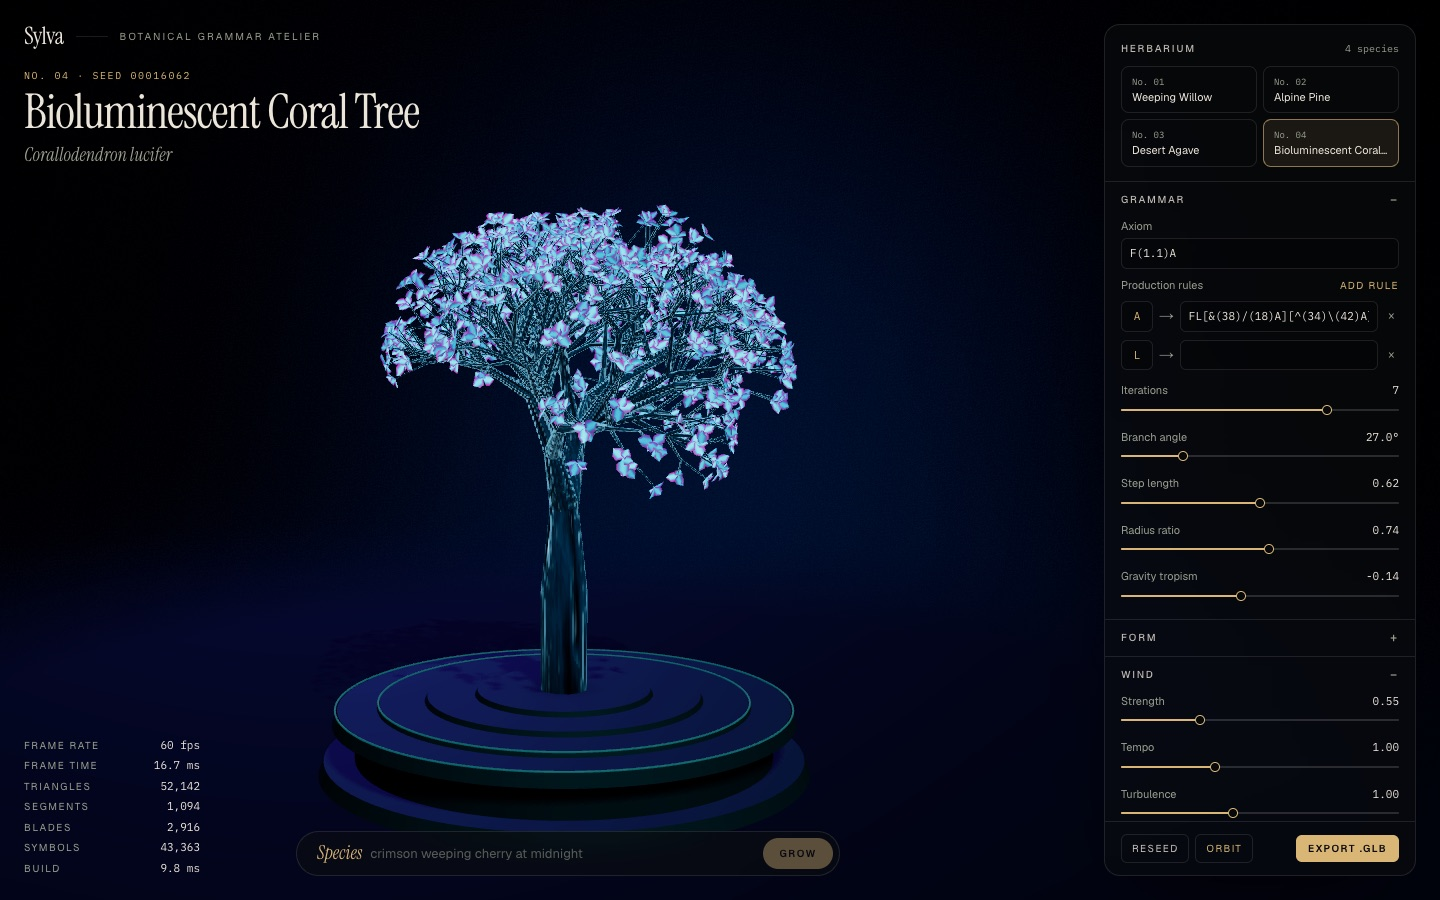
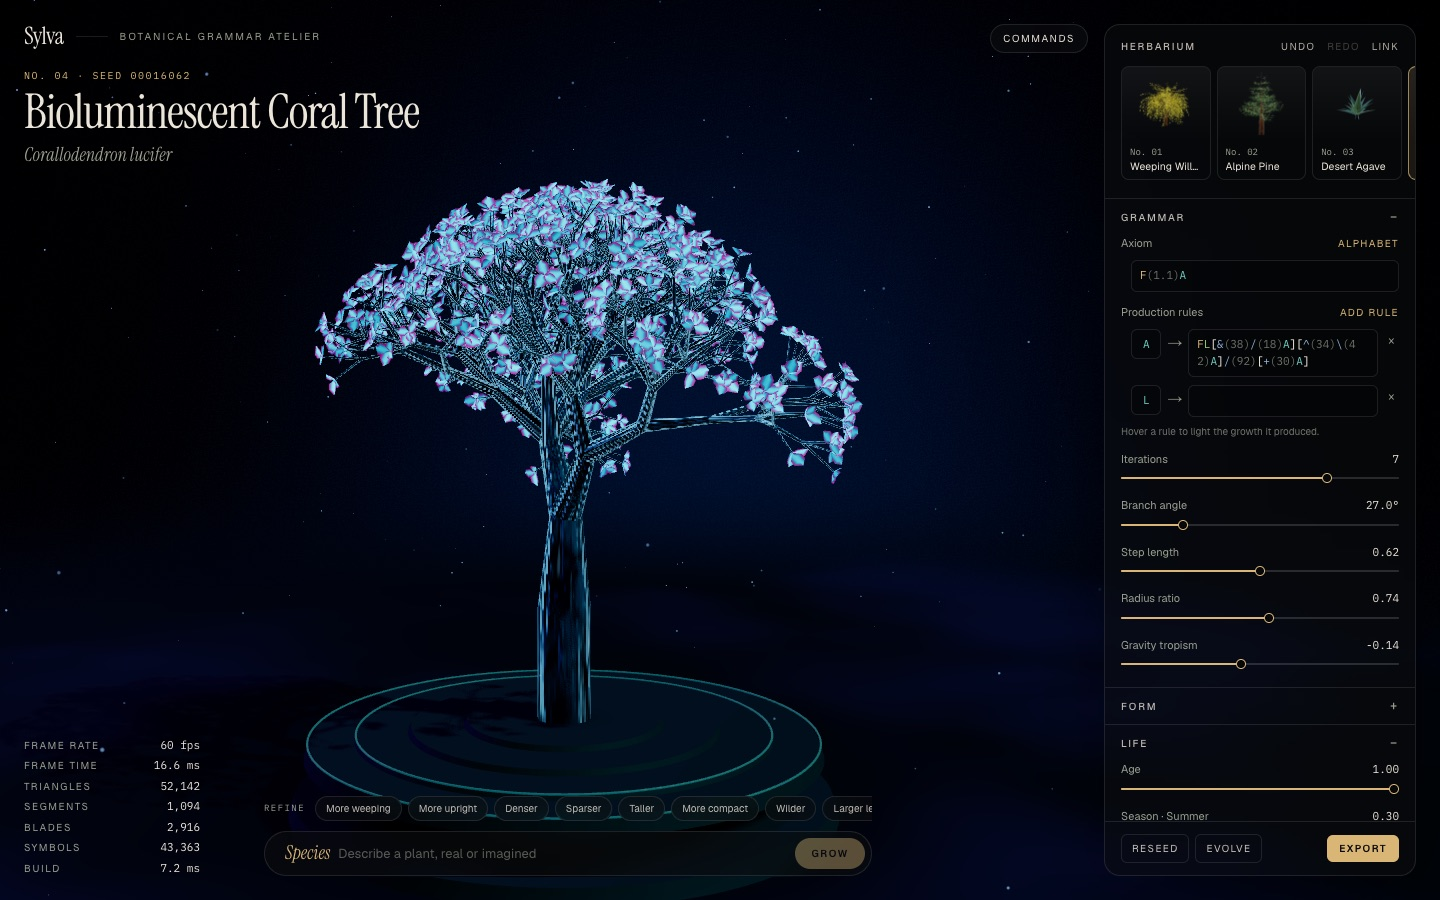
docs: document evolve, seasons, captures, exports and shortcuts in readme

diff --git a/README.md b/README.md
@@ -1,12 +1,16 @@
 # Sylva
 
-Sylva is an interactive atelier for growing plants from formal grammars. A bracketed L-system is expanded, walked by a 3D turtle, skinned into two batched meshes, and lit by custom GLSL wind and subsurface-scattering shaders on a gallery plinth. Describe a species in plain language to get a new grammar, tune it live, then export the specimen as a binary `.glb`.
+Sylva is an interactive atelier for growing plants from formal grammars. A bracketed L-system is expanded, walked by a 3D turtle, skinned into two batched meshes, and lit by custom GLSL wind and subsurface-scattering shaders on a gallery plinth. Describe a species in plain language to get a new grammar, breed it by eye, tune it live, then export a model, a video or a printed plate.
 
 ![Weeping Willow under golden-hour light](docs/screenshots/weeping-willow.jpg)
 
-| Alpine Pine | Desert Agave | Bioluminescent Coral Tree |
+| Alpine Pine | Desert Agave | Bioluminescent Coral Tree | Mountain Cherry |
+| --- | --- | --- | --- |
+| ![Alpine Pine](docs/screenshots/alpine-pine.jpg) | ![Desert Agave](docs/screenshots/desert-agave.jpg) | ![Bioluminescent Coral Tree](docs/screenshots/coral-tree.jpg) | ![Mountain Cherry](docs/screenshots/mountain-cherry.jpg) |
+
+| Evolve by eye | Trace a rule into the scene | Botanical plate |
 | --- | --- | --- |
-| ![Alpine Pine](docs/screenshots/alpine-pine.jpg) | ![Desert Agave](docs/screenshots/desert-agave.jpg) | ![Bioluminescent Coral Tree](docs/screenshots/coral-tree.jpg) |
+| ![Evolve tray with six rendered variants](docs/screenshots/evolve.jpg) | ![Hovering a rule lights the growth it produced](docs/screenshots/rule-highlight.jpg) | ![Exported botanical plate](docs/screenshots/botanical-plate.jpg) |
 
 ## Getting started
 
@@ -15,7 +19,7 @@ npm install
 npm run dev
 ```
 
-Open `http://localhost:3000`. The Weeping Willow grows on load; the other presets live in the Herbarium at the top of the inspector.
+Open `http://localhost:3000`. The Weeping Willow grows on load.
 
 | Script | Purpose |
 | --- | --- |
@@ -37,14 +41,52 @@ OPENAI_MODEL=gpt-5-mini
 
 ## Using the atelier
 
-- **Herbarium** switches between the four built-in species and replays the growth animation.
-- **Grammar** edits the axiom and production rules as text, with sliders for iterations, default branch angle, step length, radius ratio and gravity tropism. Every edit rebuilds the mesh.
-- **Form** covers trunk radius, per-depth length decay, angular jitter, leaf size and leaf shape.
-- **Wind** sets strength, tempo, turbulence, heading and leaf flutter. **Light** selects a mood and adjusts leaf translucency, bark relief, bioluminescence and bloom.
-- **Reseed** draws new random jitter, **Orbit** toggles the slow camera turn, and **Export .glb** downloads the current specimen.
-- The **Species** bar at the bottom turns a description such as `crimson weeping cherry at midnight` into a grammar, palette and lighting mood.
+### Finding a plant
 
-Drag to orbit and scroll to zoom. The readout in the lower left shows live frame rate alongside the size of the current build.
+- **Herbarium.** The shelf at the top of the inspector shows the five built-in species as rendered thumbnails. **Save** adds the current specimen to your own collection, which is kept in the browser.
+- **Species bar.** Describe a plant such as `crimson weeping cherry at midnight`. Focusing the empty field offers suggestions and your recent descriptions; the arrow keys step through history.
+- **Evolve.** Six rendered variants of the current specimen appear with a short description of how each differs. Pick one and it becomes the parent of the next six. This explores a species without reading a single rule.
+- **Refine.** The chips above the species bar nudge the current plant: more weeping, denser, taller, wilder and so on.
+
+### Shaping it
+
+- **Grammar.** The axiom and rules are multi-line, colour-coded fields. Unbalanced brackets are flagged as you type, and **Alphabet** opens a legend. Hover or focus a rule and the growth it produced lights up in the scene while the rest dims.
+- **Form.** Trunk radius, length decay, angular jitter, leaf shape and size, and the flower or fruit drawn by `K`.
+- **Life.** **Age** scrubs the plant from seed to maturity. **Season** runs from spring buds through summer to autumn colour, falling leaves and bare winter wood. Blossoms appear in spring and fruit follows.
+- **Palette.** Six colour swatches plus bioluminescence.
+- **Wind** and **Stage.** Strength, tempo, turbulence and heading; lighting mood, leaf translucency, bark relief, bloom, haze and depth of field. **Grove** grows four siblings from other seeds to show natural variation.
+
+Every change to the species is undoable. **Link** copies a URL that carries the whole species.
+
+### Shortcuts
+
+| Key | Action |
+| --- | --- |
+| `Cmd/Ctrl + K` or `?` | Command palette |
+| `1` to `5` | Built-in species |
+| `V` | Evolve variants |
+| `R` | Reseed |
+| `S` | Save to herbarium |
+| `L` | Copy share link |
+| `O` `G` `P` | Orbit, grove, presentation mode |
+| `E` | Export binary glTF |
+| `Cmd/Ctrl + Z`, `Shift + Cmd/Ctrl + Z` | Undo, redo |
+| `Esc` | Close the palette, tray or presentation |
+
+Presentation mode hides the interface, orbits slowly and cycles through the species.
+
+## Export
+
+| Format | Contents |
+| --- | --- |
+| Binary glTF | `Bark` and `Foliage` meshes with positions, normals, UVs, baked colour in `COLOR_0` and wind weights in `COLOR_1` (R branch flex, G leaf sway, B phase) |
+| glTF with detail levels | The same at three densities, named `_LOD0` to `_LOD2` for engine import |
+| USDZ | A lighter mesh with vertex colours and duplicated back faces for leaves |
+| Transparent PNG | The current view at 3000 pixels on the long edge, with the plinth and without backdrop, floor or haze |
+| Turntable video | An eight second full rotation of the live canvas |
+| Botanical plate | A 2400 by 3200 poster with a studio-lit portrait, the grammar, parameters and palette |
+
+Coordinates are in scene units with Y up. The glTF exports of all presets pass the Khronos validator with no errors or warnings, and the USDZ opens in Pixar USD with both meshes and their colours; it has not been tried in Quick Look on a device. Stills and plates are rendered off screen and do not include bloom. The video is H.264 or WebM depending on the browser.
 
 ## L-system syntax
 
@@ -61,7 +103,8 @@ A grammar is an axiom plus up to eight production rules. On each iteration every
 | `\` `/` | Roll left and right around the heading |
 | `\|` | Turn around |
 | `[` `]` | Push and pop the turtle state to start and finish a branch |
-| `L` | Attach a leaf cluster at the current position |
+| `L` | Attach a leaf cluster |
+| `K` | Attach a flower or a fruit, depending on the species |
 | other letters | Growth buds that only matter through their rules |
 
 Any symbol may carry a numeric argument in parentheses. `F(1.5)` scales that step by 1.5, `+(35)` and `/(137.5)` rotate by an explicit number of degrees instead of the default branch angle, and `L(0.6)` scales a leaf. When a symbol with an argument is rewritten, the whole module is replaced.
@@ -85,6 +128,7 @@ Any symbol may carry a numeric argument in parentheses. `F(1.5)` scales that ste
 - Deeper bracket levels respond more strongly to gravity, which lets a trunk stand straight while its whips hang.
 - A rule with an empty successor erases its symbol. `L -> (empty)` keeps leaves on the youngest growth only, which is how the coral tree lights just its tips.
 - A rule that rewrites `L` to itself drops the argument, so `L(0.55)` is a small newborn leaf that reaches full size one generation later. The agave rosette uses this.
+- Every drawn symbol remembers which rule emitted it. That provenance is what the rule tracing in the inspector displays.
 
 ### A worked example
 
@@ -100,16 +144,16 @@ W  ->  F(0.6)L/(137.5)F(0.6)L/(137.5)F(0.6)L/(137.5)F(0.6)LW
 
 ### Safety caps
 
-Custom and generated grammars cannot stall the browser. Expansion stops before a sentence exceeds 180,000 symbols, the turtle stops at 26,000 segments, 14,000 leaf nodes or 48 nested brackets, and foliage is limited to 42,000 blades. When a cap is reached the last complete state is rendered and the readout reports that growth was capped. Grammars arriving from the API are also trimmed to an iteration count that stays well inside these limits.
+Custom and generated grammars cannot stall the browser. Expansion stops before a sentence exceeds 180,000 symbols, the turtle stops at 26,000 segments, 14,000 leaf and organ nodes or 48 nested brackets, and foliage is limited to 42,000 blades. When a cap is reached the last complete state is rendered and the readout reports that growth was capped. Grammars arriving from the API, from Evolve or from Refine are also trimmed to an iteration count that stays well inside these limits.
 
 ## Rendering
 
 ### Geometry
 
-The whole specimen is two draw calls, plus two more in the shadow pass.
+Meshes are built in a web worker and transferred to the main thread, so the interface stays responsive while a grammar grows. The whole specimen is two draw calls, plus two more in the shadow pass.
 
-- **Bark** is one indexed `BufferGeometry`. Consecutive segments share rings, the reference frame is parallel-transported along each limb to avoid twist, side counts fall from twelve on the trunk to four on twigs, and tips are capped. Attributes: `position`, `normal`, `uv` (around the limb, distance along it), `aBranchFactor` (0 at the root to 1 at flexible tips) and `aBarkRoughness` (1 on the trunk, lower on young wood).
-- **Foliage** is one indexed `BufferGeometry` of curved, folded blades. Attributes: `position`, `normal`, `uv`, `aAnchor` (attachment point), `aSway` (per-vertex flutter weight), `aPhase`, `aBranchFactor` and `aShade` (canopy depth).
+- **Bark** is one indexed geometry. Consecutive segments share rings, the reference frame is parallel-transported along each limb to avoid twist, side counts fall from twelve on the trunk to five on twigs (fewer at reduced detail levels), and tips are capped. Attributes: `position`, `normal`, `uv`, `aBranchFactor` (0 at the root to 1 at flexible tips), `aBarkRoughness` and `aRule`.
+- **Foliage** is one indexed geometry of curved, folded blades, five-petalled blossoms and berries. Attributes: `position`, `normal`, `uv`, `aAnchor` (attachment point), `aSway` (per-vertex flutter weight), `aPhase`, `aBranchFactor`, `aShade` (canopy depth), `aRule` and `aOrgan`.
 
 ### Shaders
 
@@ -117,23 +161,25 @@ All sources live in `src/shaders` and are imported as text.
 
 | File | Role |
 | --- | --- |
-| `wind.glsl` | Shared `windOffset(point, flex)`: a trunk lean weighted by height squared plus multi-octave limb eddies weighted by flexibility squared, so roots stay anchored |
+| `wind.glsl` | Shared `windOffset(point, flex)`: a trunk lean weighted by height squared plus multi-octave limb eddies weighted by flexibility squared, phased by world position so neighbours sway out of step |
 | `bark.vert` | Applies wind and the growth reveal, which thickens limbs from the root outward |
 | `bark.frag` | Cylinder-mapped plate and grain noise, derivative bump mapping, cavity shading, warm rim light and pulsing sap veins for luminous species |
-| `foliage.vert` | Carries each blade with its branch by evaluating the same wind function at `aAnchor`, then adds flutter, twist and unfurling |
-| `foliage.frag` | Vein and margin anatomy, wrapped diffuse light, and view-dependent transmission that brightens as the camera looks through a leaf toward a light |
-| `lighting.glsl` | Shared key, back, hemisphere and rim light uniforms |
-| `depth.frag` | Shadow pass companion so shadows sway with the plant |
-| `backdrop.vert` `backdrop.frag` | Screen-space obsidian backdrop with a radial halo |
+| `foliage.vert` | Carries each blade with its branch by evaluating the same wind function at `aAnchor`, then adds flutter, unfurling, seasonal budding and the tumbling fall of shed leaves |
+| `foliage.frag` | Vein and margin anatomy, autumn colour, petals and fruit, wrapped diffuse light and view-dependent transmission that brightens as the camera looks through a leaf toward a light |
+| `lighting.glsl` | Shared lights, the key light's shadow map so the canopy shades its own branches, and the rule highlight |
+| `depth.frag` | Shadow pass companion so shadows sway and shed with the plant |
+| `motes.*` `mist.*` | Dust that catches the back light, luminous spores for glowing species, and ground haze |
+| `backdrop.*` `resolve.frag` | Screen-space backdrop, and tone mapping for off-screen captures |
 
-Frequently adjusted uniforms: `uWindStrength`, `uWindTime`, `uTurbulence`, `uWindDirection`, `uFlutter`, `uTranslucency`, `uBarkRelief`, `uGlow` and `uGrowth`. Light directions and colours come from the selected mood in `src/scene/moods.ts`, which also drives the Three.js lights on the plinth so both agree.
+Light directions and colours come from the selected mood in `src/scene/moods.ts`, which also drives the Three.js lights on the plinth so both agree.
 
 ### Frame discipline
 
-- No React state is set inside `useFrame`. Uniforms are written from `useBotanyStore.getState()`, and the frame-rate readout updates DOM text directly.
-- Sylva's frame callbacks allocate nothing; scratch vectors live in the shared uniform objects.
-- Geometries are disposed on every rebuild and materials on unmount. Live WebGL buffer, texture, program and framebuffer counts were checked to be unchanged after 48 parameter edits and six species switches.
-- Measured in Chrome on an Apple M1 Max with vsync disabled, including the shadow pass, 4x MSAA and bloom: about 320 to 360 fps on a 2520x1575 canvas and about 580 fps at 1440x900 for every preset. Mesh builds take between 1 and 45 ms.
+- No React state is set inside `useFrame`. Uniforms are written from `useBotanyStore.getState()`, geometry is swapped on mesh references, and the frame-rate readout updates DOM text directly.
+- Sylva's frame callbacks allocate nothing; scratch vectors live at module scope or in the shared uniform objects.
+- Geometries are disposed on every rebuild and materials on unmount. Live WebGL buffer, texture, program, vertex array, framebuffer and renderbuffer counts were checked to be unchanged after 60 parameter edits, seven species switches, 24 rendered thumbnails, three grove cycles and repeated captures.
+- Measured in Chrome on an Apple M1 Max with vsync disabled, on a 2520 by 1575 canvas with self shadowing, 4x MSAA, bloom and atmosphere: 336 to 393 fps across the five presets and 337 fps with the grove enabled. Mesh builds take between 1 and 60 ms.
+- Depth of field turns multisampling off while it is active, because the two do not combine in the post-processing chain.
 
 ## Grammar API
 
@@ -147,37 +193,38 @@ Frequently adjusted uniforms: `uWindStrength`, `uWindTime`, `uTurbulence`, `uWin
 { "species": { "name": "...", "latin": "...", "grammar": {}, "form": {}, "palette": {}, "mood": "abyssal", "seed": 0 }, "source": "procedural" }
 ```
 
-`source` is `openai` or `procedural`, and an optional `notice` explains a fallback. Model output is requested as a structured object, then repaired and clamped before it is trusted: sentences are reduced to well-formed modules with balanced brackets, numbers are clamped to slider ranges, colours are checked, and the result must pass the same Zod schema the client uses. The procedural generator matches the description against nine plant archetypes, reads colour, mood, stature and density words, and perturbs branching angles from a hash of the text.
-
-## Export
-
-**Export .glb** writes a binary glTF 2.0 file through `GLTFExporter` with a root node named after the species and two meshes, `Bark` and `Foliage`. Each carries positions, normals, UVs and baked vertex colours on a standard PBR material, with emission for luminous species. Coordinates are in scene units with Y up and are not rescaled to the stage. Exports of all four presets pass the Khronos glTF validator with no errors or warnings. Wind is a shader effect and is not part of the file.
+`source` is `openai` or `procedural`, and an optional `notice` explains a fallback. Model output is requested as a structured object, then repaired and clamped before it is trusted: sentences are reduced to well-formed modules with balanced brackets, numbers are clamped to slider ranges, colours are checked, and the result must pass the same Zod schema the client uses. The procedural generator matches the description against ten plant archetypes, reads colour, mood, stature and density words, and perturbs branching angles from a hash of the text.
 
 ## Project layout
 
 ```text
 src/
   app/                 Next.js App Router shell and the /api/grammar route
-  components/          Inspector, rule editor, prompt bar, placard and readout
+  capture/             Off-screen snapshots, portraits, thumbnails, stills, video and plate
+  components/          Inspector, rule editor, evolve tray, prompt bar, command palette
   engine/
-    lsystem.ts         Grammar expansion with symbol budget
+    lsystem.ts         Grammar expansion with symbol budget and rule provenance
     turtle.ts          3D turtle interpretation into a skeleton
     limbMetrics.ts     Pipe-model radii, flexibility and path lengths
-    meshBuilder.ts     Batched bark geometry and build orchestration
-    leafBuilder.ts     Batched blade geometry per leaf shape
-    glbExporter.ts     Binary glTF export
+    barkBuilder.ts     Batched bark mesh
+    leafBuilder.ts     Leaf, blossom and berry placement
+    foliageWriter.ts   Blade and berry vertex writer
+    meshBuilder.ts     Build orchestration and statistics
+    specimen.worker.ts Worker entry, with buildClient.ts as its caller
+    mutation.ts        Variant breeding for Evolve
     grammarSynth.ts    Deterministic description-to-species generator
-    archetypes.ts      Plant archetypes used by the generator
     speciesNormalizer.ts  Repair and clamping of untrusted grammars
-  scene/               Canvas, specimen, studio stage, moods and materials
+    exportScene.ts     Baked export meshes shared by glbExporter.ts and usdzExporter.ts
+  scene/               Canvas, specimen, grove, camera rig, atmosphere, stage and materials
   shaders/             GLSL sources
-  store/               Zustand store
+  store/               Zustand slices for the species, the studio and the herbarium
+  studio/              Actions, commands, refinements, shortcuts and share links
   types/               Zod schemas, types and species presets
 ```
 
 ## Stack
 
-Next.js 16 with the App Router and React 19, TypeScript in strict mode, Three.js through React Three Fiber and Drei, `three-stdlib` for export, Tailwind CSS 4, Zustand, Zod, and the Vercel AI SDK with the OpenAI provider. The canvas is loaded client-side only.
+Next.js 16 with the App Router and React 19, TypeScript in strict mode, Three.js through React Three Fiber, Drei and the post-processing bindings, `three-stdlib` for glTF export, Tailwind CSS 4, Zustand, Zod, and the Vercel AI SDK with the OpenAI provider. The canvas is loaded client-side only.
 
 ## License
 
